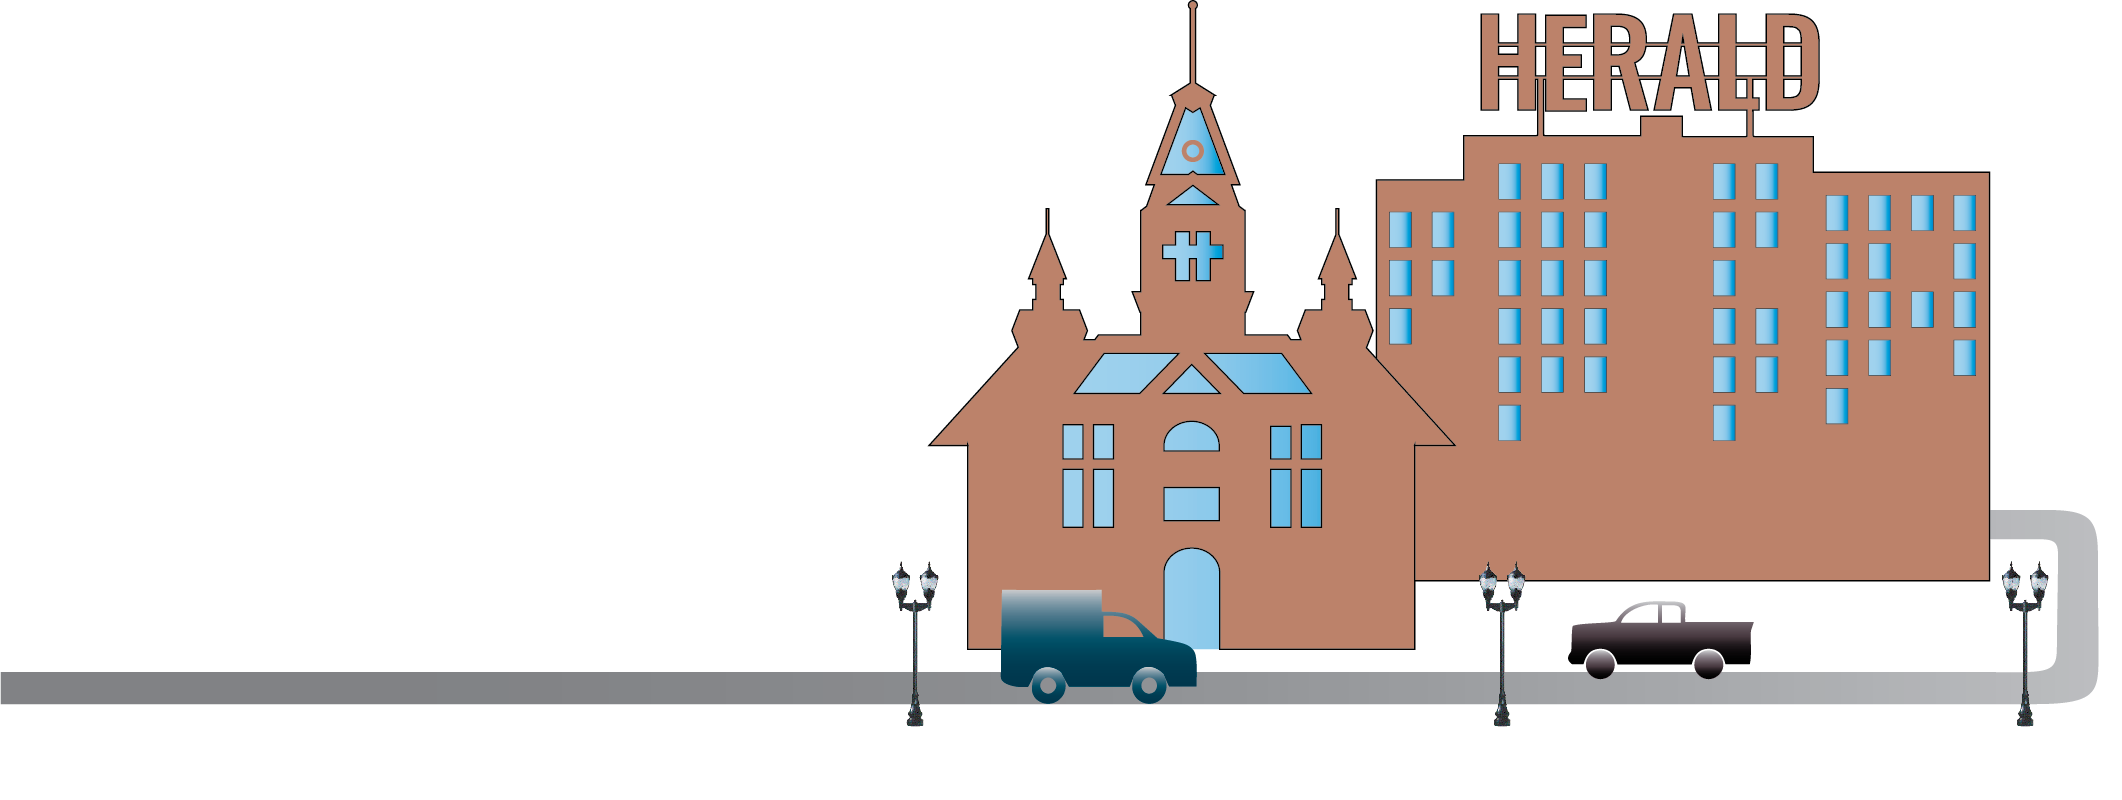
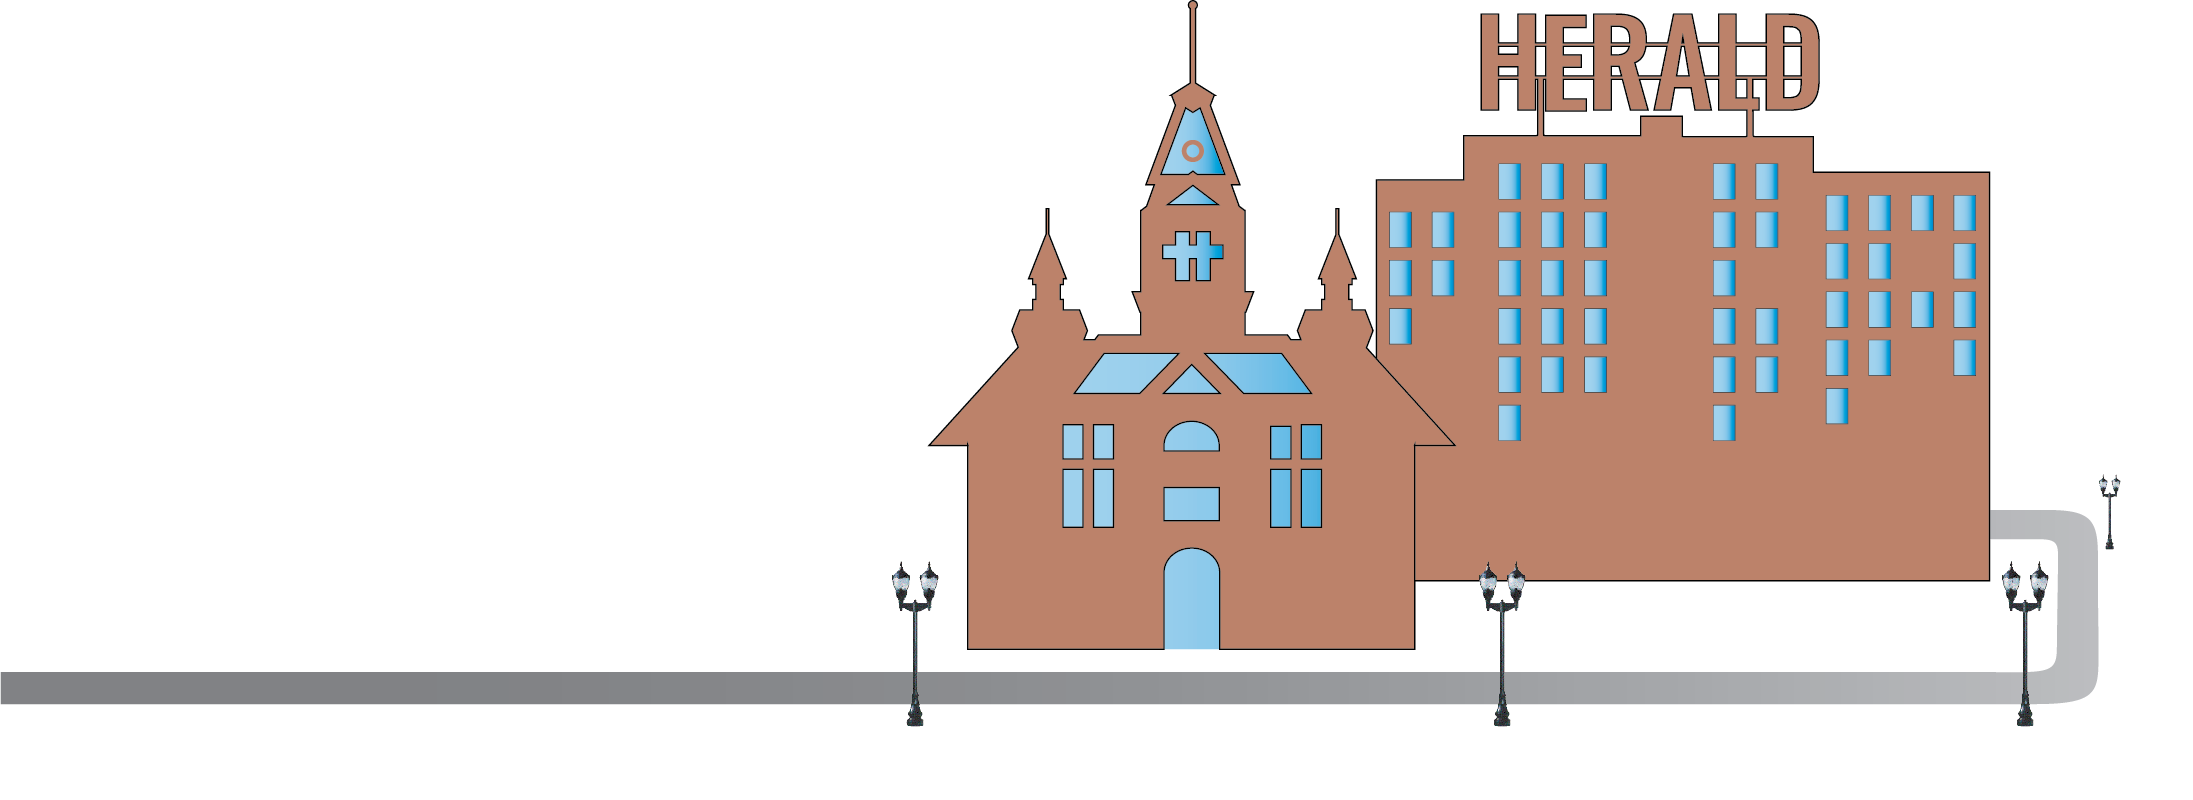
more styles for 7

Changed region(s): [[0.4043, 0.0, 0.9953, 0.9062], [0.6221, 0.6875, 0.8398, 0.9062]]

diff --git a/working.html b/working.html
@@ -4,7 +4,6 @@
 <head>
   <title>Stories of Climate Change | Western Washington University</title>
 
-
   <meta charset="utf-8">
   <meta name="viewport" content="width=device-width, initial-scale=1.0" />
 
@@ -1012,10 +1011,10 @@
       </div>
       <div class="article article-07">
         <div class="grain-bg">
-          <div class="deer"><img src="src/img/svg/deer.png" alt="" /></div>
-          <article class="grain-bg">
-            <h2 class="article-title">In The City</h2>
-            <p class="tagline">Ain't so Pretty</p>
+          <article  data-aos="fade-in" class="grain-bg">
+            <div class="deer"><img src="src/img/svg/deer.png" alt="mother and baby deer" /></div>
+            <h2 data-aos="fade-in" data-aos-delay="500" class="article-title">In The City</h2>
+            <p data-aos="fade-in" data-aos-delay="1000" class="tagline">Something Pretty</p>
             <p>
               These things happen automatically. All you have to do is just let them happen. Fluff that up. You want your tree to have some character. Make it special. And that's when it becomes fun - you don't have to spend your time thinking about what's happening - you just let it happen. When you do it your way you can go anywhere you choose.
             </p>
@@ -1024,13 +1023,15 @@
             </p>
             <div class="photo large center">
               <img src="src/img/photo/streams_04.jpg" alt="">
-              <p class="photo-caption grain-bg text-align-center">placeholder</p>
+              <p class="text-align-center">placeholder</p>
             </div>
             <p>
               We start with a vision in our heart, and we put it on canvas. Only eight colors that you need. When things happen - enjoy them. They're little gifts. Now we don't want him to get lonely, so we'll give him a little friend. We spend so much of our life looking - but never seeing.
             </p>
             <blockquote>
-              Let's make some happy little clouds in our world. This is gonna be a happy little seascape. Just pretend you are a whisper floating across a mountain.
+              <p data-aos="fade-in" class="grain-bg">
+                Let's make some happy little clouds in our world. This is gonna be a happy little seascape. Just pretend you are a whisper floating across a mountain.
+              </p>
             </blockquote>
             <p>
               Very easy to work these to death. I sincerely wish for you every possible joy life could bring. This is truly an almighty mountain. Let's build some happy little clouds up here.
@@ -1039,14 +1040,16 @@
               It's life. It's interesting. It's fun. Painting should do one thing. It should put happiness in your heart. How to paint. That's easy. What to paint. That's much harder. Just let go - and fall like a little waterfall. Don't fight it, use what happens.
             </p>
             <blockquote>
-              So often we avoid running water, and running water is a lot of fun. That is when you can experience true joy, when you have no fear. In this world, everything can be happy.
+              <p data-aos="fade-in" class="grain-bg">
+                So often we avoid running water, and running water is a lot of fun. That is when you can experience true joy, when you have no fear. In this world, everything can be happy.
+              </p>
             </blockquote>
             <p>
               Mix your color marbly don't mix it dead. This painting comes right out of your heart. Sometimes you learn more from your mistakes than you do from your masterpieces. Just think about these things in your mind and drop em' on canvas. Once you learn the technique, ohhh! Turn you loose on the world; you become a tiger. Maybe he has a little friend that lives right over here.
             </p>
             <div class="photo large right">
               <img src="src/img/photo/streams_04.jpg" alt="">
-              <p class="photo-caption grain-bg text-align-center">placeholder</p>
+              <p class="text-align-center">placeholder</p>
             </div>
             <p>
               This is a fantastic little painting. You can't make a mistake. Anything that happens you can learn to use - and make something beautiful out of it. We don't have anything but happy trees here. A tree needs to be your friend if you're going to paint him.
@@ -1055,11 +1058,13 @@
               The light is your friend. Preserve it. Follow the lay of the land. It's most important. It just happens - whether or not you worried about it or tried to plan it. The secret to doing anything is believing that you can do it. Anything that you believe you can do strong enough, you can do. Anything. As long as you believe. You need the dark in order to show the light.
             </p>
             <blockquote>
-              We have a fantastic little sky! We'll throw some old gray clouds in here just sneaking around and having fun. Put light against light - you have nothing. Put dark against dark - you have nothing. It's the contrast of light and dark that each give the other one meaning.
+              <p data-aos="fade-in" class="grain-bg">
+                We have a fantastic little sky! We'll throw some old gray clouds in here just sneaking around and having fun. Put light against light - you have nothing. Put dark against dark - you have nothing. It's the contrast of light and dark that each give the other one meaning.
+              </p>
             </blockquote>
             <div class="photo large left">
               <img src="src/img/photo/streams_04.jpg" alt="">
-              <p class="photo-caption grain-bg text-align-center">placeholder</p>
+              <p class="text-align-center">placeholder</p>
             </div>
             <p>
               You got your heavy coat out yet? It's getting colder. What the devil. We don't have to be committed. We are just playing here. Maybe we got a few little happy bushes here, just covered with snow. Remember how free clouds are. They just lay around in the sky all day long. You need to have a very firm paint to do this.
@@ -1071,10 +1076,21 @@
         </div>
       </div>
       <div class="city-town grain-illustration">
-        <div class="street"><img src="src/img/svg/bellingham.png" alt="Downtown Bellingham buildings on a street with cars" /></div>
+        <div class="street">
+          <div class="buildings"><img src="src/img/svg/bellingham.png" alt="A church and the Herald building on a road with cars driving in "/></div>
+          <div class="box-truck"><img data-aos="fade-right" src="src/img/svg/box-truck.svg" alt="" /></div>
+          <div class="truck"><img data-aos="fade-left"  data-aos-delay="400" src="src/img/svg/truck.svg" alt="" /></div>
+        </div>
 
         <div class="city-flex">
-          <div class="factory"><img src="src/img/svg/factory.png" alt="A factory on the water" /></div>
+          <div class="factory">
+            <div class="smoke"><img data-aos="fade-in" data-aos-delay="0" src="src/img/svg/factory-smoke.svg" alt="" /></div>
+            <div class="smoke"><img data-aos="fade-in" data-aos-delay="200" src="src/img/svg/factory-smoke.svg" alt="" /></div>
+            <div class="smoke"><img data-aos="fade-in" data-aos-delay="400" src="src/img/svg/factory-smoke.svg" alt="" /></div>
+            <div class="smoke"><img data-aos="fade-in" data-aos-delay="600" src="src/img/svg/factory-smoke.svg" alt="" /></div>
+            <div class="smoke"><img data-aos="fade-in" data-aos-delay="800" src="src/img/svg/factory-smoke.svg" alt="" /></div>
+            <div class="building"><img src="src/img/svg/factory.svg" alt="A factory on the water" /></div>
+          </div>
           <div class="call-out-wrapper">
             <div class="call-out-box grain-bg" data-aos="fade-in">
               <h3>Did you know?</h3>
@@ -1087,6 +1103,16 @@
               </p>
             </div>
           </div>
+        </div>
+      </div>
+
+      <div class="to-be-continued">
+        <div class="grain-bg">
+          <article>
+            <h2 data-aos="fade-in">To be continued</h2>
+
+            <p class="text-align-center">Check back next week for the next installment...</p>
+          </article>
         </div>
       </div>
     </section>

diff --git a/src/sass/03-organisms/articles/_article-07.scss b/src/sass/03-organisms/articles/_article-07.scss
@@ -11,10 +11,12 @@
   }
 
   article {
+    position: relative;
     max-width: $max-content-width + ($triple-spacing * 2);
     padding: $triple-spacing;
     border-radius: $border-radius--round-square;
     background-color: $brick-red;
+    box-shadow: $shadow;
   }
 
   .article-title {
@@ -26,23 +28,59 @@
     color: $white;
     text-shadow: 2px 2px 0 $black;
   }
+
+  blockquote {
+    background-image: linear-gradient(to right, $water-light-blue, $water-dark-blue);
+    box-shadow: inset -2px -2px 4px transparentize($black, 0.8);
+
+    p {
+      padding: $standard-spacing;
+      font-weight: $font-weight--regular;
+
+      @media (min-width: 581px) {
+        padding: $double-spacing;
+
+      }
+    }
+  }
 }
 
 #chapter-07 {
   .call-out-box {
-    h3 {
-      color: $lightest-green;
-    }
     width: 100%;
     margin: $standard-spacing;
     padding: $double-spacing;
+    text-align: center;
     color: white;
     border-radius: $border-radius--round-square;
     background-color: $street-gray;
 
+    h3 {
+      color: $lightest-green;
+    }
+
     @media (min-width: $small) {
       width: 80%;
+      max-width: $max-content-width;
       margin: auto;
+    }
+  }
+
+  .to-be-continued {
+    position: relative;
+    z-index: 1;
+    margin-top: -2.8vw;
+    padding-bottom: 0;
+    color: $darkest-blue;
+
+    > div {
+      padding-top: $triple-spacing;
+      padding-bottom: $double-spacing;
+      background-image: linear-gradient($sand-tan, $water-light-blue);
+
+      h2 {
+        color: $dark-blue;
+      }
     }
   }
 }

diff --git a/src/sass/04-illustration/_city.scss b/src/sass/04-illustration/_city.scss
@@ -17,6 +17,7 @@
   top: 10vw;
   right: 6vw;
   width: 64%;
+  max-width: 1400px;
 
   img {
     width: 100%;
@@ -25,14 +26,13 @@
 
 .deer {
   position: absolute;
-  top: -10vw;
-  right: 5vw;
+  top: -11vw;
+  right: -7vw;
   width: 40%;
   max-width: 400px;
 
-  @media (min-width: 840px) {
-    top: -6vw;
-    right: 25vw;
+  @media (min-width: $medium) {
+    top: -7vw;
   }
 }
 
@@ -47,12 +47,78 @@
 }
 
 .factory {
+  position: relative;
+  z-index: 2;
+  flex: 0 1 20%;
   align-self: end;
+  margin-left: $standard-spacing;
 
-  justify-self: start;
+  @media (min-width: 841px) {
+    margin-left: 5vw;
+  }
+
+
+  .building {
+    position: relative;
+    width: 100%;
+  }
+
+  .smoke {
+    position: absolute;
+    width: 43%;
+
+    &:nth-of-type(1) {
+      top: -6%;
+      left: 29%;
+      opacity: 0.9;
+    }
+
+    &:nth-of-type(2) {
+      top: -10%;
+      left: 27%;
+      opacity: 0.9;
+    }
+
+    &:nth-of-type(3) {
+      top: -13%;
+      left: 24%;
+      opacity: 0.7;
+    }
+
+    &:nth-of-type(4) {
+      top: -15%;
+      left: 22%;
+      opacity: 0.5;
+    }
+
+    &:nth-of-type(5) {
+      top: -17%;
+      left: 19%;
+      opacity: 0.3;
+    }
+  }
+}
+
+.street {
+  position: relative;
+}
+
+.box-truck {
+  position: absolute;
+  right: 45%;
+  bottom: 12.5%;
+  width: 7vw;
+}
+
+.truck {
+  position: absolute;
+  right: 20%;
+  bottom: 15%;
+  width: 8vw;
 }
 
 .call-out-wrapper {
   z-index: 1;
   flex: 0 1 80%;
+  margin-bottom: 4.8vw;
 }

diff --git a/src/sass/03-organisms/articles/_article-06.scss b/src/sass/03-organisms/articles/_article-06.scss
@@ -144,7 +144,7 @@
   }
 
   .call-out-box {
-    margin-bottom: $triple-spacing;
+    margin-bottom: 0;
     color: $white;
     background-color: $tree-medium-green;
 
